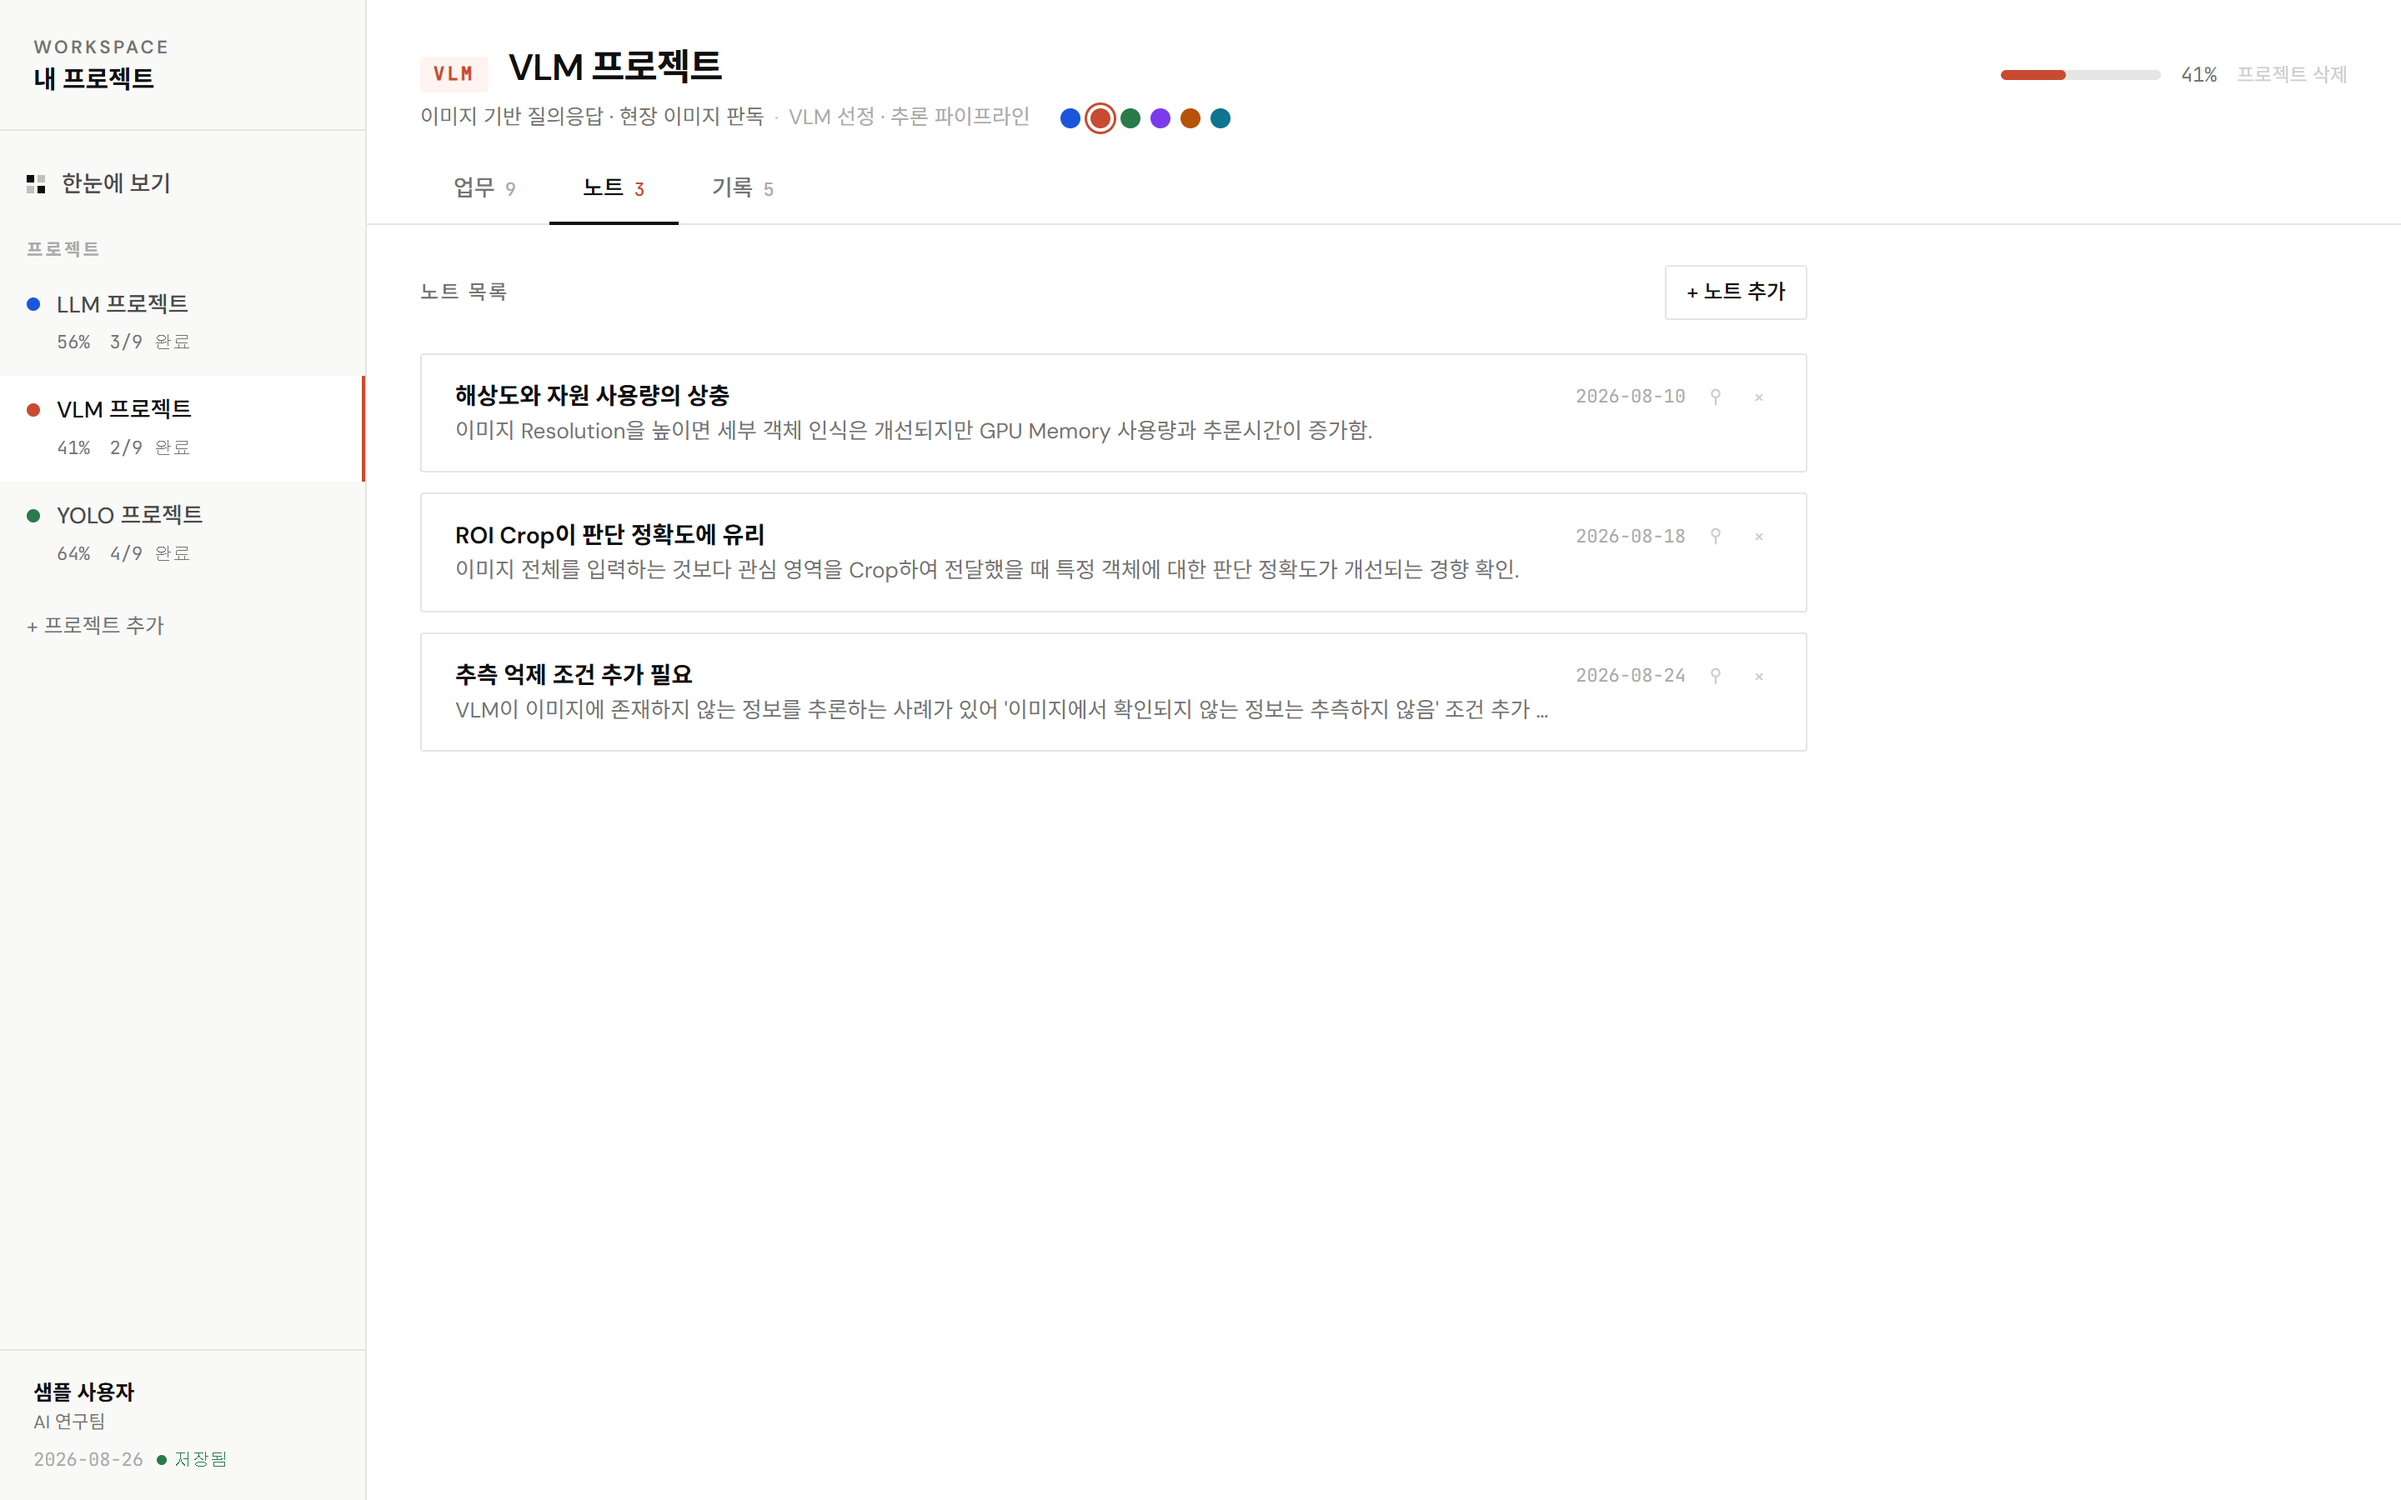
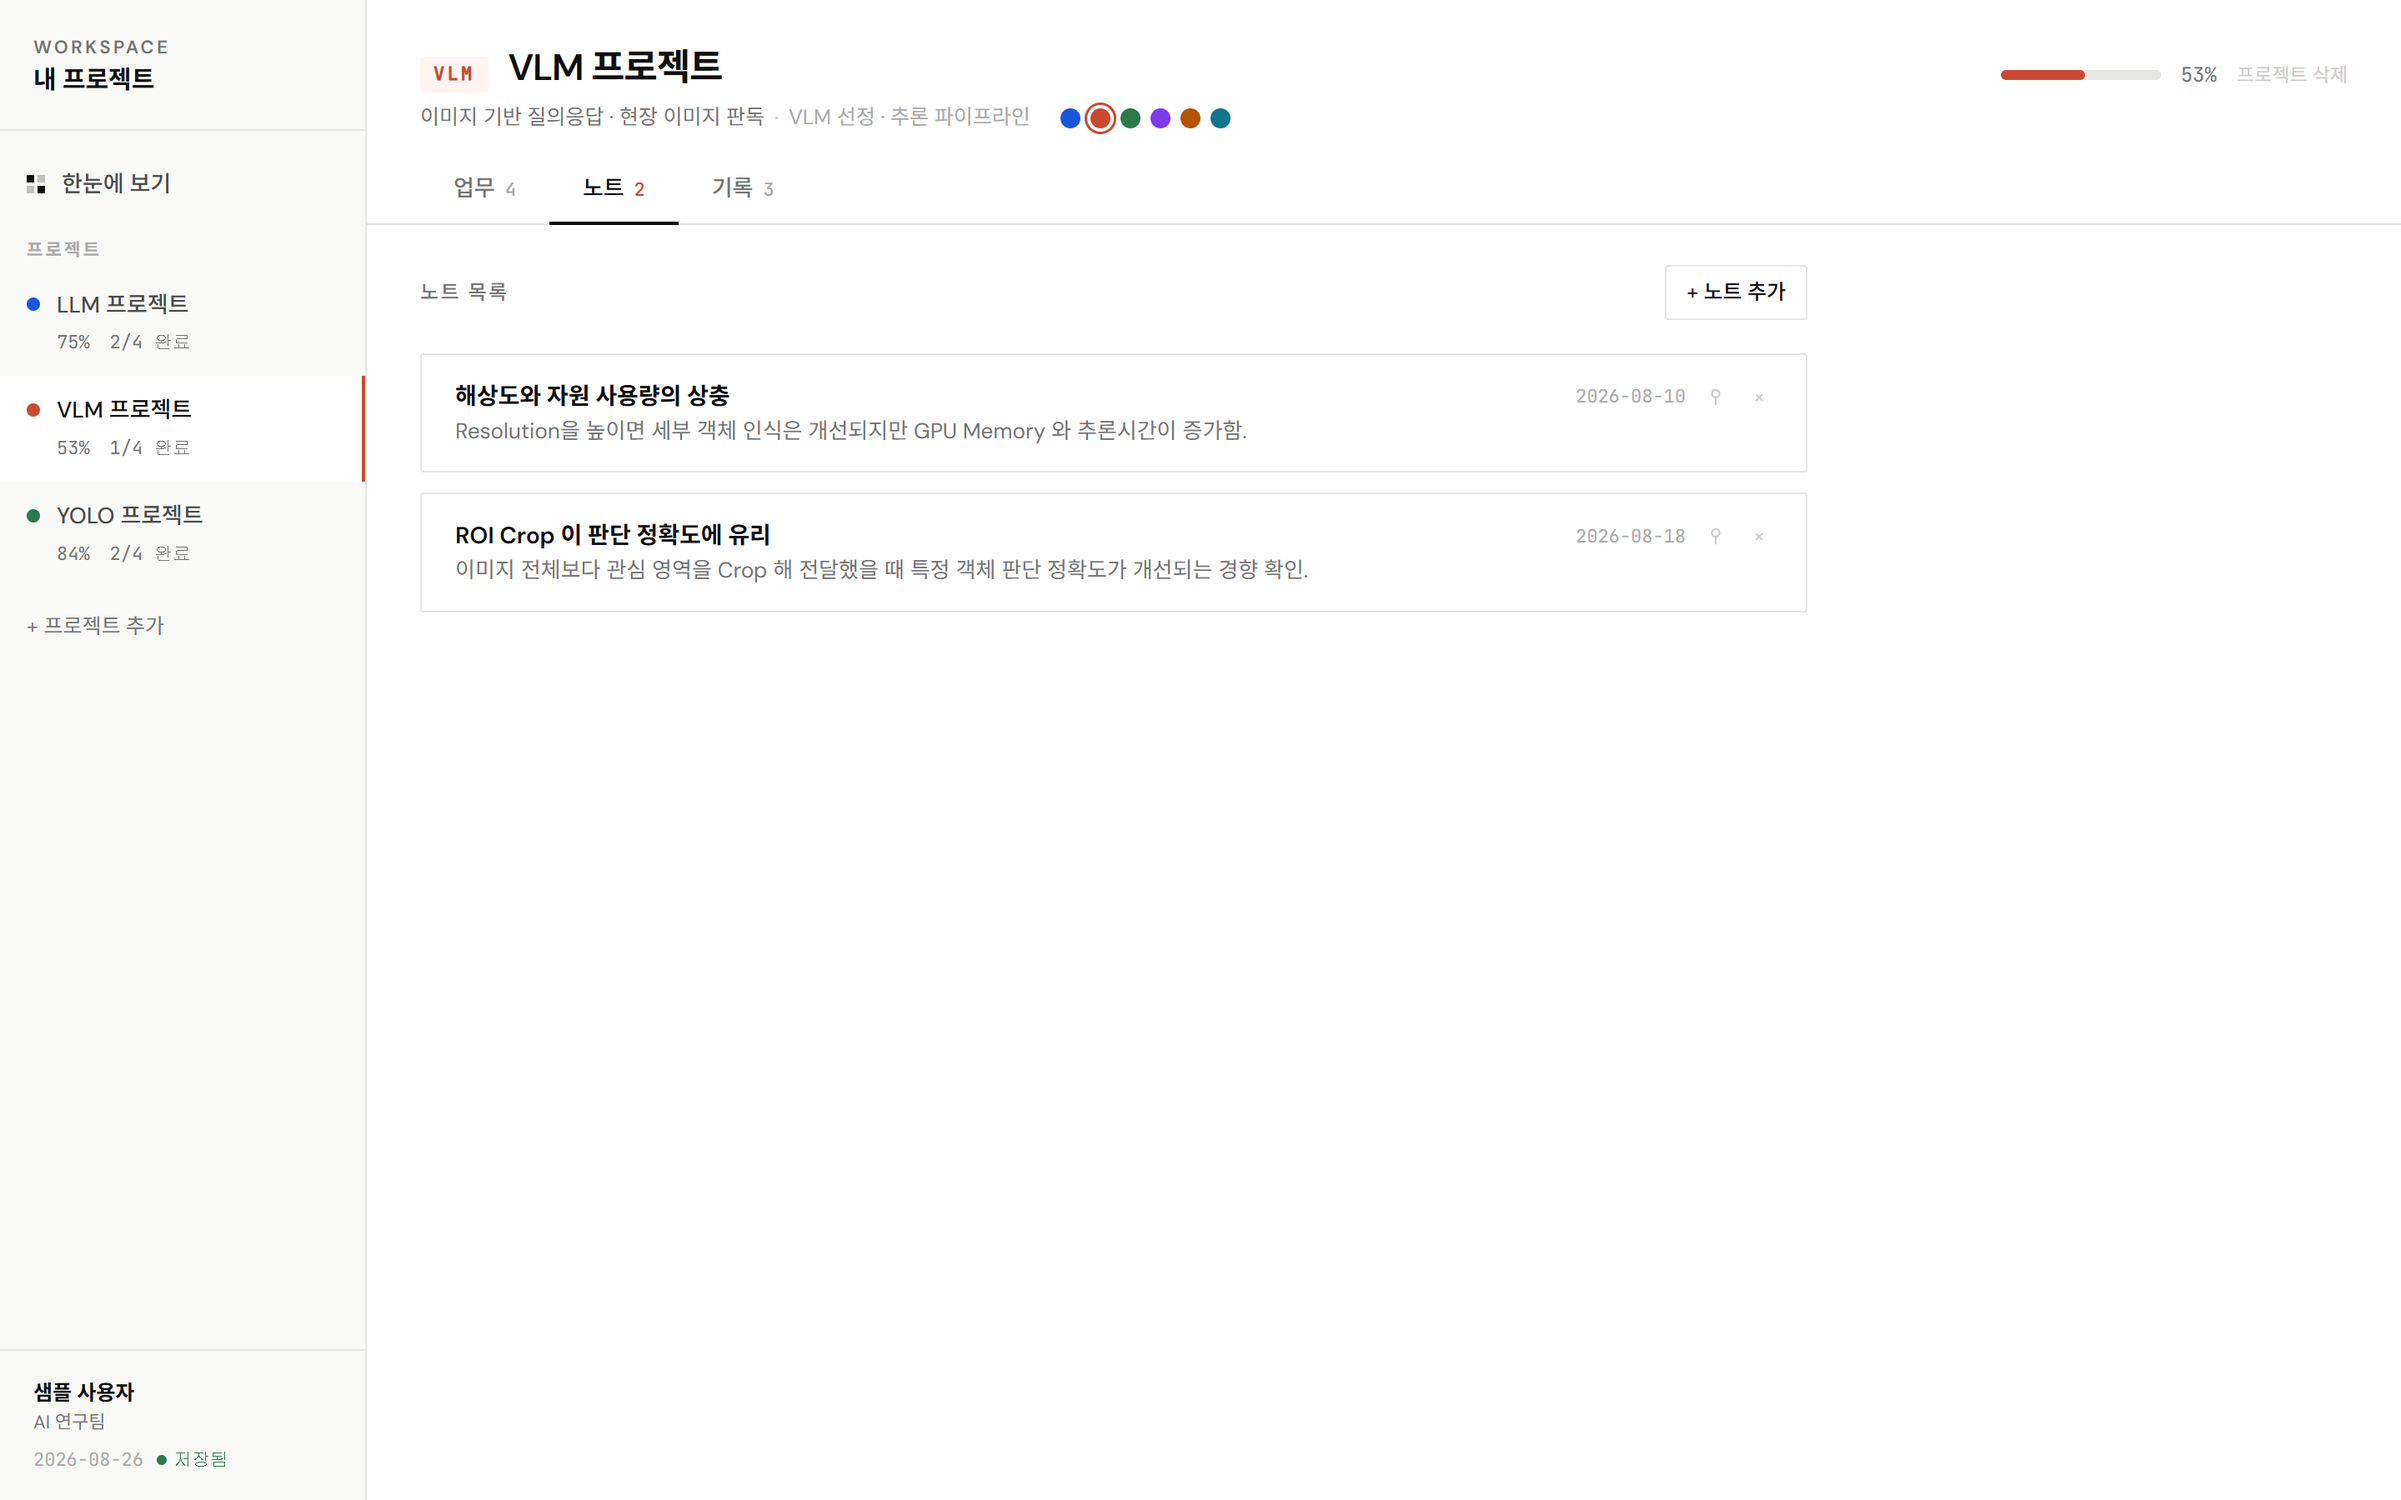
예시 데이터 재작성

diff --git a/README.md b/README.md
@@ -30,7 +30,7 @@
 ### 기록
 
 **양식**(항목 + 값)과 **무양식**(자유 한 줄)을 한 표에 섞어 쓸 수 있습니다.
-아래에서 위 네 줄은 양식, 아래 두 줄은 무양식입니다.
+아래에서 위 두 줄은 양식, 마지막 줄은 무양식입니다.
 
 ![기록 탭](docs/images/04-project-records.png)
 
@@ -140,7 +140,7 @@ npm run dev
 
 - 처음 실행하면 서버가 `data/dashboard-data.json` 이 없는 것을 보고 예시 데이터를 복사해
   만듭니다. 콘솔에 `[데이터 새로 만듦] data.sample → …` 이 찍힙니다.
-- 예시 데이터에는 LLM / VLM / YOLO 3개 프로젝트가 들어 있습니다. 대주제 9개와 하위 업무 27개,
-  노트 9건, 기록 16건(양식·무양식 섞음), 미분류 메모 2건, 마감 3건.
+- 예시 데이터에는 LLM / VLM / YOLO 3개 프로젝트가 들어 있습니다. 프로젝트마다 대주제 2개와
+  하위 업무 4개, 노트 2건, 기록 3건(양식 2 + 무양식 1). 그 밖에 미분류 메모 1건과 마감 3건.
 - 쓰던 데이터를 다른 PC로 옮기려면 `data` 폴더만 복사하면 됩니다.
 - 예시 데이터를 다시 보고 싶으면 `data` 폴더를 지우고 다시 실행하세요 (지우기 전에 백업할 것).
